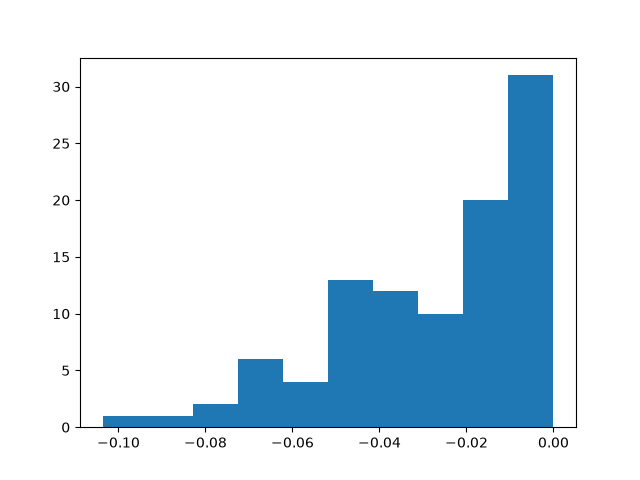
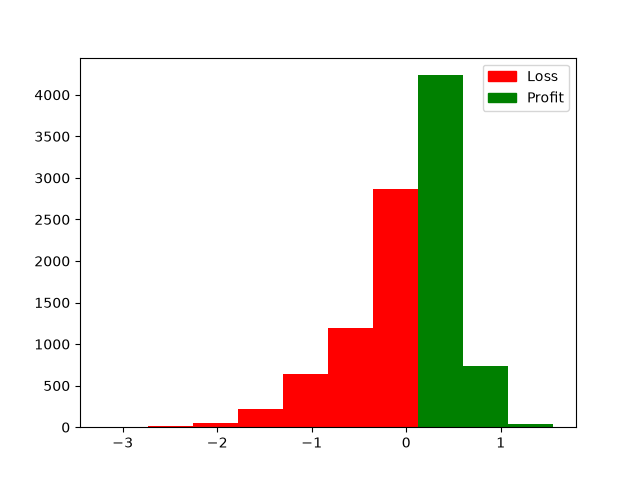
fix(randombot): fixed logic flaws, updated histogram plotting and improved it

diff --git a/software/scripts/randomBot.py b/software/scripts/randomBot.py
@@ -1,5 +1,6 @@
 #import pandas as pd
 import matplotlib.pyplot as plt
+import matplotlib.patches as mpatches
 import numpy as np
 import random
 
@@ -12,10 +13,10 @@ def generateStock(days, volatility, start_price):
     return prices
 
 #######################################################################
-sims = 100 #number of monte carlo trials
+sims = 10000 #number of monte carlo trials
 start_price = 150 #initial price of the stock
 volatility = 2 #how many $ can the price move daily
-days = 100 #number of days the stock was traded for
+days = 10000 #number of days the stock was traded for
 #######################################################################
 profits = []
 
@@ -25,15 +26,19 @@ for sim in range(sims):
     profit = 0
 
     for x in prices:
-        if x > start_price and stock_owned == False: #time to buy
+        if x < start_price and stock_owned == False: #time to buy
             stock_owned = True
             buy_price = x
-        elif x <= start_price and stock_owned == True: #selling
+        elif x >= start_price and stock_owned == True: #selling
             stock_owned = False
             sell_price = x
             profit += (sell_price - buy_price)
     
-    profit = (profit/start_price)
+    if stock_owned == True:
+        liquidation_sell_price = prices[-1]
+        profit += (liquidation_sell_price - buy_price)
+    
+    profit = (profit/start_price) 
 
     profits.append(profit)
 
@@ -48,5 +53,17 @@ minval = min(profits)
 print(f"Minimum profit: {minval:.2%}")
 
 #plotting mechanism
-plot = plt.hist(profits)
+n, bins, patches = plt.hist(profits)
+red_patch = mpatches.Patch(color='red', label='Loss')
+green_patch = mpatches.Patch(color='green', label='Profit')
+
+for i in range(len(patches)):
+    if bins[i] < 0:
+        patches[i].set_facecolor('red')
+    else:
+        patches[i].set_facecolor('green')
+
+
+plt.legend(handles=[red_patch, green_patch])
+
 plt.savefig("profits_histogram.png")
